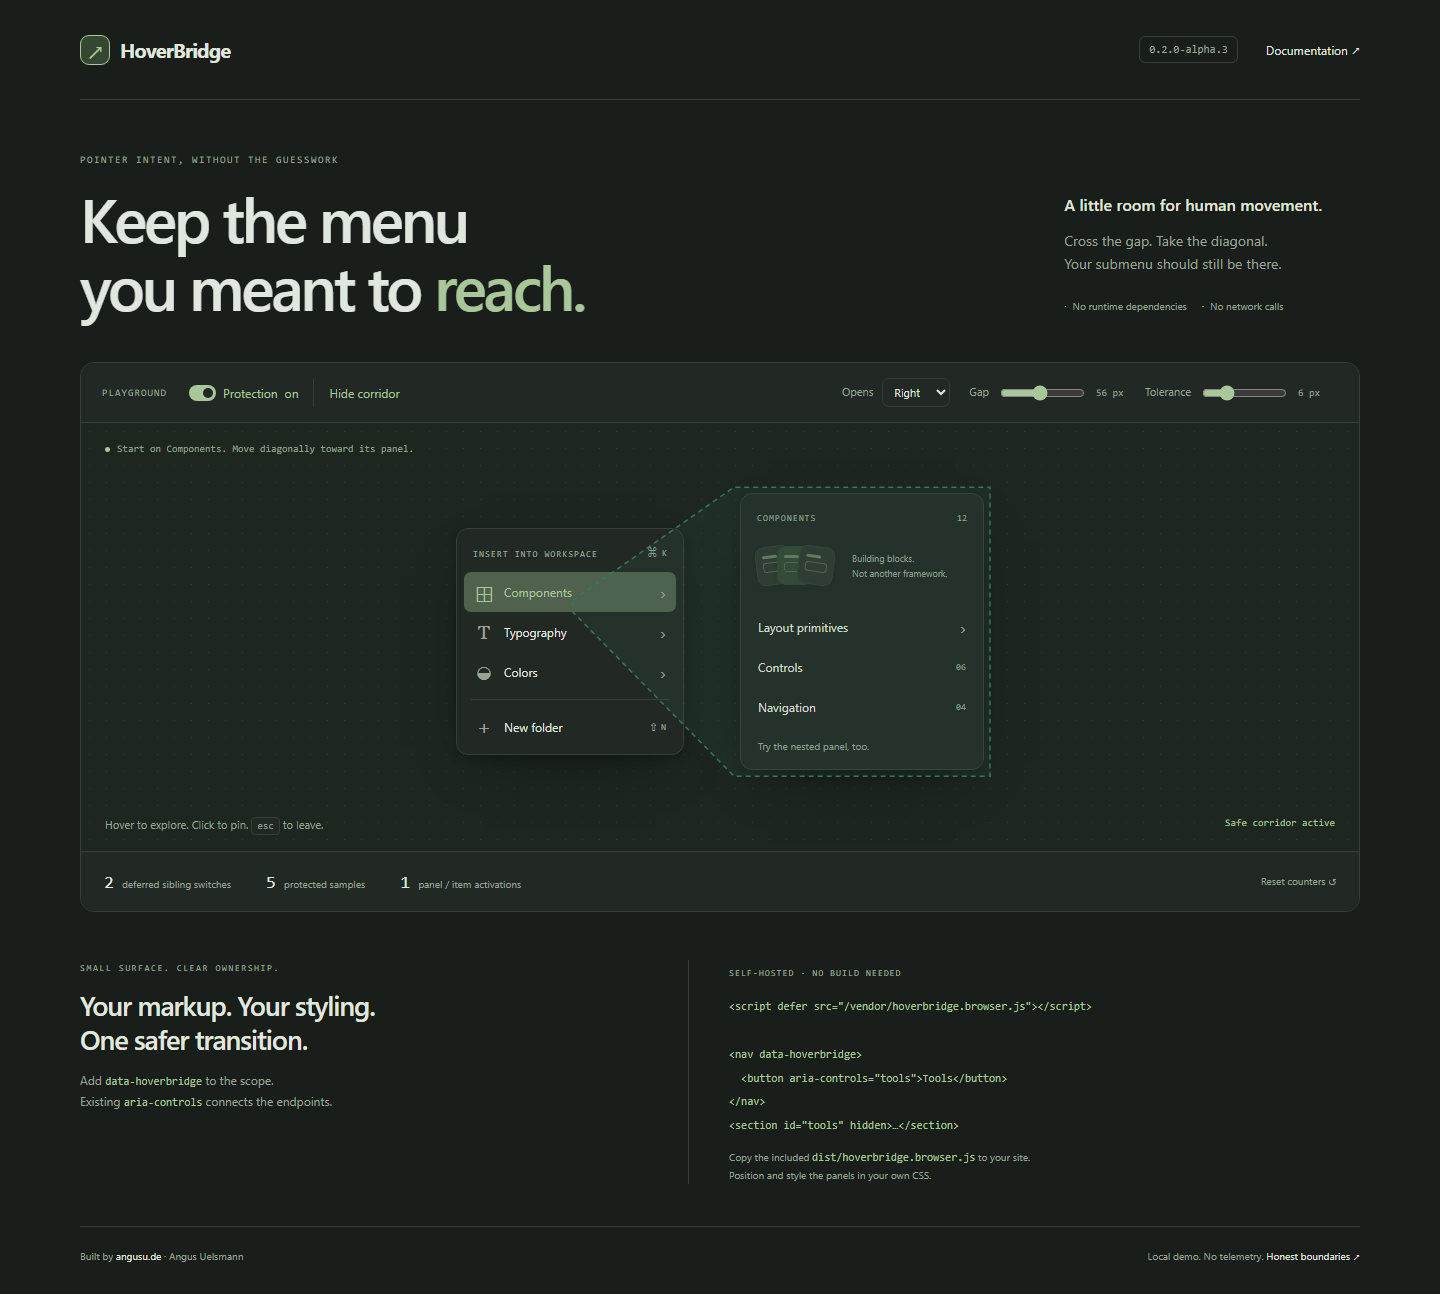
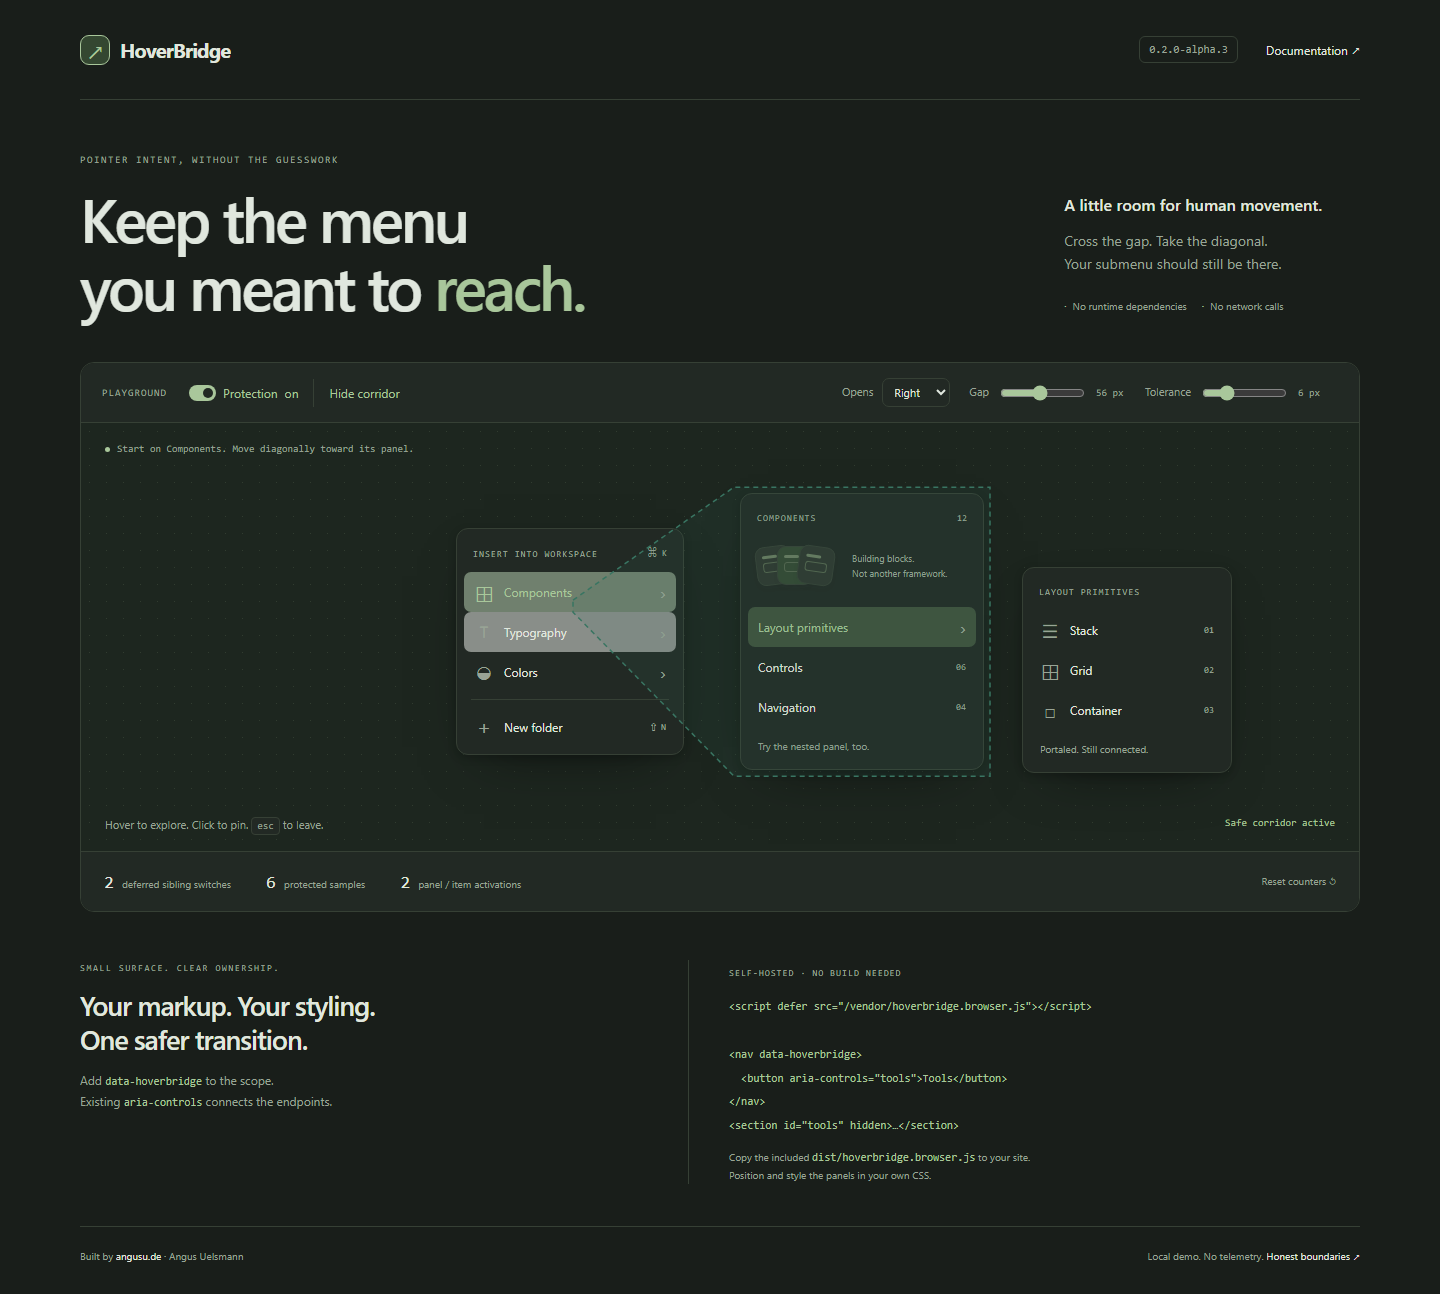
Add real hover comparison, hosted demo and consistent README assets

diff --git a/README.de.md b/README.de.md
@@ -3,22 +3,38 @@
 <h1 align="center">Das Untermenü, das du erreichen wolltest.<br>Bleibt erreichbar.</h1>
 <p align="center">Über die Lücke. Quer durch die Liste.<br>Ohne versehentlich das nächste Menü zu öffnen.</p>
 
+<p align="center"><a href="README.md"><img src="docs/assets/readme-language-en.svg" height="40" alt="Read this README in English"></a></p>
+
 <p align="center">
-  <a href="https://github.com/IamAngusU/HoverBridge/releases/download/v0.2.0-alpha.3/hoverbridge.browser.js"><img src="docs/assets/badge-browser.svg" height="36" alt="Ein Browser-Script herunterladen"></a>
-  <img src="docs/assets/badge-dependencies.svg" height="36" alt="Keine Laufzeit-Abhängigkeiten">
-  <a href="https://github.com/IamAngusU/HoverBridge/releases/tag/v0.2.0-alpha.3"><img src="docs/assets/badge-alpha.svg" height="36" alt="Release 0.2.0-alpha.3"></a>
-  <a href="LICENSE"><img src="docs/assets/badge-license.svg" height="36" alt="MIT"></a>
-  <a href="https://github.com/angusu-de/HoverBridge-CI/actions/workflows/ci.yml"><img src="https://github.com/angusu-de/HoverBridge-CI/actions/workflows/ci.yml/badge.svg?branch=main&amp;event=push" height="36" alt="Live-Status des CI-Spiegels"></a>
+  <a href="https://github.com/IamAngusU/HoverBridge/releases/tag/v0.2.0-alpha.3"><img src="docs/assets/readme/repo-release.svg" height="40" alt="Preview 0.2.0-alpha.3"></a>
+  <a href="docs/install.md"><img src="docs/assets/readme/repo-runtime.svg" height="40" alt="Browser and TypeScript"></a>
+  <a href="LICENSE"><img src="docs/assets/readme/repo-license.svg" height="40" alt="MIT license"></a>
 </p>
-<p align="center"><a href="#einmal-einbinden">Start</a> · <a href="#ausprobieren">Playground</a> · <a href="docs/api.md">API</a> · <a href="docs/testing.md">Messwerte</a> · <a href="README.md">English</a></p>
+
+<p align="center"><a href="#schnellstart">Start</a> · <a href="#ausprobieren">Playground</a> · <a href="docs/api.md">API</a> · <a href="docs/testing.md">Messwerte</a> · <a href="README.md">English</a></p>
 
 HoverBridge hält das aktive Panel offen, während sich der Pointer in seine Richtung bewegt. Auch dann, wenn der Weg über andere Listeneinträge oder einen leeren Abstand führt. Ein bewusster Richtungswechsel, Verweilen über einem anderen Eintrag oder ein Klick gibt die Auswahl wieder frei.
 
 **Kein unsichtbares Overlay, das Klicks abfängt. Kein globales `pointer-events: none`. Kein neues Menü-Framework.**
 
-<img src="docs/assets/how-it-works.svg" width="1280" alt="Technisches Diagramm: Der Pointer kreuzt Typography auf dem Weg zum Components-Panel; Components bleibt ausgewählt.">
+**Für bestehende Websites und eigene Menü-Komponenten.** [Live ausprobieren](https://angusu.de/hoverbridge/index.html) · [Installation](docs/install.md)
 
-<sub>Schematische Darstellung im Stil der Bloom-Grafiken. Der Weg ist ein Beispiel, keine Messung echter Nutzer.</sub>
+![HoverBridge off and on, with the same pointer path](docs/assets/hoverbridge-comparison.gif)
+
+<sub>Zehn Sekunden, derselbe skriptgesteuerte Pointer-Weg: Schutz aus, dann an. Echte Browseraufnahme des mitgelieferten Playgrounds; kein Nutzertest.</sub>
+
+## Schnellstart
+
+```sh
+npm install https://github.com/IamAngusU/HoverBridge/releases/download/v0.2.0-alpha.3/iamangusu-hoverbridge-0.2.0-alpha.3.tgz
+```
+```js
+import { createHoverBridge } from '@iamangusu/hoverbridge';
+const menu = document.querySelector('[data-hoverbridge]');
+if (menu) createHoverBridge(menu);
+```
+
+Die versionierte Release-Datei funktioniert heute; npm-Veröffentlichung folgt nach Kontoeinrichtung. Ohne Build-Schritt: die Browser-Datei unten verwenden.
 
 ## Einmal einbinden
 
@@ -123,7 +139,7 @@ guard.destroy();
 
 Für Maintainer schreibt `npm run metrics` Bundle-Größe und einen Microbenchmark des DOM-freien Kerns nach `docs/evidence/`. Die CI lädt diese Dateien pro Linux-Lauf als Artefakt hoch. Browser-Layout und Rendering sind in diesen Zeiten nicht enthalten. [Messbereich](docs/testing.md#size-and-core-benchmark).
 
-**Gehostete CI:** Der öffentliche [CI-Spiegel](https://github.com/angusu-de/HoverBridge-CI) prüft denselben Commit unter Windows, Linux und macOS. Auf dem IamAngusU-Account startet GitHub die Jobs derzeit wegen einer Abrechnungssperre nicht. Das Badge zeigt `main` des Spiegels; bei neuen Commits muss dessen SHA mit `main` dieses Repositories verglichen werden. [Workflow und Herkunft](docs/deployment.md#ci-and-evidence).
+[Build-Nachweise und Herkunft](docs/deployment.md#ci-and-evidence).
 
 ## Verhalten
 
@@ -151,6 +167,12 @@ Der Geometrie-Kern lässt sich in andere Laufzeiten übertragen. Fertige native 
 
 Physische Stift- und Touch-Geräte sind ebenfalls noch ungetestet. [Browsermatrix und Grenzen](docs/testing.md).
 
+## Warum nicht Floating UI oder Radix?
+
+[Floating UI](https://floating-ui.com/docs/usehover#safepolygon) bietet bereits `safePolygon()` und Positionierung. Wer es nutzt, sollte zuerst dessen Hover-Verhalten verwenden. [Radix](https://www.radix-ui.com/primitives/docs/components/dropdown-menu) liefert komplette React-Komponenten mit eigener Zustands- und Tastaturlogik.
+
+HoverBridge passt zu bestehendem HTML, anderen Frameworks oder einer eigenen Menülogik, wenn nur Pointer-Absicht und Übergänge fehlen. Der Guard-Einstieg lässt die Zustandskontrolle bei deiner Komponente. Es ist kein Ersatz für Positionierung oder ein vollständiges barrierefreies Menü; zwei konkurrierende Zustandscontroller dürfen nicht dieselbe Sichtbarkeit steuern.
+
 ## Projektbefehle
 
 ```sh
@@ -166,3 +188,5 @@ Für die Script-Einbindung auf deiner Website brauchst du keinen dieser Befehle.
 [Messwerte und Tests](docs/testing.md) · [Architektur](docs/architecture.md) · [Deployment](docs/deployment.md) · [Mitarbeiten](CONTRIBUTING.md) · [Sicherheit](SECURITY.md)
 
 <p align="center"><sub>Powered by <a href="https://angusu.de">angusu.de</a> · Angus Uelsmann · <a href="LICENSE">MIT</a></sub></p>
+
+<p align="center"><a href="https://github.com/IamAngusU/icon-marquee"><img src="docs/assets/stack-marquee.svg" width="760" alt="TypeScript, JavaScript, HTML, CSS and Node.js"></a></p>

diff --git a/README.md b/README.md
@@ -3,22 +3,38 @@
 <h1 align="center">Keep the menu you meant to reach.</h1>
 <p align="center">Cross the gap. Take the diagonal.<br>Your submenu should still be there.</p>
 
+<p align="center"><a href="README.de.md"><img src="docs/assets/readme-language-de.svg" height="40" alt="Diese README auf Deutsch lesen"></a></p>
+
 <p align="center">
-  <a href="https://github.com/IamAngusU/HoverBridge/releases/download/v0.2.0-alpha.3/hoverbridge.browser.js"><img src="docs/assets/badge-browser.svg" height="36" alt="Download one browser script"></a>
-  <a href="docs/architecture.md"><img src="docs/assets/badge-dependencies.svg" height="36" alt="Zero runtime dependencies"></a>
-  <a href="https://github.com/IamAngusU/HoverBridge/releases/tag/v0.2.0-alpha.3"><img src="docs/assets/badge-alpha.svg" height="36" alt="0.2.0-alpha.3 release"></a>
-  <a href="LICENSE"><img src="docs/assets/badge-license.svg" height="36" alt="MIT licensed"></a>
-  <a href="https://github.com/angusu-de/HoverBridge-CI/actions/workflows/ci.yml"><img src="https://github.com/angusu-de/HoverBridge-CI/actions/workflows/ci.yml/badge.svg?branch=main&amp;event=push" height="36" alt="Live CI mirror status"></a>
+  <a href="https://github.com/IamAngusU/HoverBridge/releases/tag/v0.2.0-alpha.3"><img src="docs/assets/readme/repo-release.svg" height="40" alt="Preview 0.2.0-alpha.3"></a>
+  <a href="docs/install.md"><img src="docs/assets/readme/repo-runtime.svg" height="40" alt="Browser and TypeScript"></a>
+  <a href="LICENSE"><img src="docs/assets/readme/repo-license.svg" height="40" alt="MIT license"></a>
 </p>
-<p align="center"><a href="#paste-once">Start</a> · <a href="#try-it">Playground</a> · <a href="docs/api.md">API</a> · <a href="docs/testing.md">Measured behavior</a> · <a href="README.de.md">Deutsch</a></p>
+
+<p align="center"><a href="#quick-start">Start</a> · <a href="#try-it">Playground</a> · <a href="docs/api.md">API</a> · <a href="docs/testing.md">Measured behavior</a> · <a href="README.de.md">Deutsch</a></p>
 
 A submenu should not be an obstacle course. HoverBridge keeps the active panel open while the pointer heads toward it, including through empty space and across neighboring rows. Move somewhere else deliberately, stop over another item, or click it: the interface follows your choice.
 
 **No invisible click-catching overlay. No global `pointer-events: none`. No replacement menu framework.**
 
-<img src="docs/assets/how-it-works.svg" width="1280" alt="Technical diagram: the pointer crosses Typography on its way to the Components panel, while Components remains the active selection.">
+**For existing websites and custom menu components.** [Try the live demo](https://angusu.de/hoverbridge/index.html) · [Install guide](docs/install.md)
 
-<sub>Schematic pointer trace inspired by the project's Bloom graphics. The path is illustrative, not measured user data.</sub>
+![HoverBridge off and on, with the same pointer path](docs/assets/hoverbridge-comparison.gif)
+
+<sub>Ten seconds, the same scripted pointer path: protection off, then on. Real browser capture of the included playground; not a user study.</sub>
+
+## Quick start
+
+```sh
+npm install https://github.com/IamAngusU/HoverBridge/releases/download/v0.2.0-alpha.3/iamangusu-hoverbridge-0.2.0-alpha.3.tgz
+```
+```js
+import { createHoverBridge } from '@iamangusu/hoverbridge';
+const menu = document.querySelector('[data-hoverbridge]');
+if (menu) createHoverBridge(menu);
+```
+
+The versioned release archive works today; registry publication is pending account setup. Without a build step, use the browser file below.
 
 ## Paste once
 
@@ -125,7 +141,7 @@ guard.destroy();
 
 For maintainers, `npm run metrics` records bundle size and a DOM-free core microbenchmark in `docs/evidence/`. CI uploads those files for each Linux run. These timings exclude browser layout and rendering. [Measurement scope](docs/testing.md#size-and-core-benchmark).
 
-**Hosted CI:** The public [CI mirror](https://github.com/angusu-de/HoverBridge-CI) runs the same commit on Windows, Linux and macOS. GitHub currently prevents jobs from starting on the IamAngusU account because of an account billing lock. The badge reports the mirror's `main` branch; compare its commit SHA with this repository's `main` before treating it as proof for a newer commit. [Workflow and provenance](docs/deployment.md#ci-and-evidence).
+[Build evidence and source provenance](docs/deployment.md#ci-and-evidence).
 
 ## What it handles
 
@@ -153,6 +169,12 @@ The geometric core is portable. Native adapters are **not** shipped in this vers
 
 Physical pen/touch devices remain untested. [Browser matrix and boundaries](docs/testing.md).
 
+## Why not Floating UI or Radix?
+
+[Floating UI](https://floating-ui.com/docs/usehover#safepolygon) already provides `safePolygon()` and positioning. If your application uses it, try its hover interaction first. [Radix](https://www.radix-ui.com/primitives/docs/components/dropdown-menu) supplies complete React primitives with their own state and keyboard behavior.
+
+Choose HoverBridge for existing HTML, another framework, or your own menu when you need a small pointer-intent layer. Its guard entry leaves state ownership with your component. It does not supply positioning or a complete accessible menu. Avoid putting competing visibility controllers on the same panel.
+
 ## Project commands
 
 ```sh
@@ -168,3 +190,5 @@ The script-only integration above needs none of these commands on your website. 
 [Measured sizes, timings and test logs](docs/testing.md) · [How the corridor works](docs/architecture.md) · [Deploy](docs/deployment.md) · [Contribute](CONTRIBUTING.md) · [Security](SECURITY.md)
 
 <p align="center"><sub>Powered by <a href="https://angusu.de">angusu.de</a> · Angus Uelsmann · <a href="LICENSE">MIT</a></sub></p>
+
+<p align="center"><a href="https://github.com/IamAngusU/icon-marquee"><img src="docs/assets/stack-marquee.svg" width="760" alt="TypeScript, JavaScript, HTML, CSS and Node.js"></a></p>

diff --git a/docs/deployment.md b/docs/deployment.md
@@ -11,7 +11,7 @@ The browser file needs no backend process, database migration, runtime dependenc
 
 ## CI and evidence
 
-[CI](../.github/workflows/ci.yml) is configured for pushes to `main`, pull requests and manual dispatch. It tests the browser matrix on Windows, Linux and macOS with Node 24, verifies the package on Node 20, smoke-tests both demo forms, and checks `npm pack`. Linux uploads measured size and DOM-free benchmark JSON as run artifacts. GitHub currently refuses to start jobs on IamAngusU because of an account billing lock. The identical commit is pushed to the public [angusu-de/HoverBridge-CI mirror](https://github.com/angusu-de/HoverBridge-CI), where Actions can run. Each mirror job first compares its commit with `IamAngusU/HoverBridge` `main` and fails if they differ. Its GitHub-generated badge in the README reflects the mirror's actual workflow status. For each release, also confirm the mirror's run SHA equals the source tag's commit before citing it as release evidence; a later source-only push can make an older green badge stale.
+[CI](../.github/workflows/ci.yml) is configured for pushes to `main`, pull requests and manual dispatch. It tests the browser matrix on Windows, Linux and macOS with Node 24, verifies the package on Node 20, smoke-tests both demo forms, and checks `npm pack`. Linux uploads measured size and DOM-free benchmark JSON as run artifacts. [Runner account context](https://github.com/IamAngusU/IamAngusU/blob/main/ci.md). The identical commit is pushed to the public [angusu-de/HoverBridge-CI mirror](https://github.com/angusu-de/HoverBridge-CI), where Actions can run. Each mirror job first compares its commit with `IamAngusU/HoverBridge` `main` and fails if they differ. Its Actions page reports the actual workflow status. For each release, also confirm the mirror's run SHA equals the source tag's commit before citing it as release evidence; a later source-only push can make an older green badge stale.
 
 The workflow uses read-only repository permission, pinned official actions and no publication secret. It does not automatically publish to npm or create a release.
 
@@ -23,6 +23,15 @@ The workflow uses read-only repository permission, pinned official actions and n
 4. The ignored `release/v0.2.0-alpha.3/` directory contains the browser file, standalone HTML, npm archive, source ZIP, per-file manifest and SHA-256 checksums. Review the files, then push the tag and create a GitHub prerelease with those assets.
 5. Download the published browser file and npm archive from the release, verify their hashes, and smoke-test the public URLs. Link the published tag from the README.
 
-`release:bundle` refuses a dirty checkout and archives the exact Git commit. The checksum manifest records that commit and every local asset's hash. It does not assert a hosted CI result; the run URL and matching SHA are the proof of CI. When GitHub unlocks Actions on IamAngusU, the primary workflow can run there again.
+`release:bundle` refuses a dirty checkout and archives the exact Git commit. The checksum manifest records that commit and every local asset's hash. It does not assert a hosted CI result; the run URL and matching SHA are the proof of CI. Runner account context is maintained in the linked profile documentation.
 
 The npm package is not published to the npm registry in this prerelease. The release archive and GitHub tag are the versioned installation sources. Publishing to npm later requires a separate account and publication decision.
+
+## Public playground
+
+The owner-operated static demo is at https://angusu.de/hoverbridge/index.html.
+Generate its standalone HTML with `npm run build` and `npm run demo:export`;
+the file includes the exact bundle, CSS and demo logic and requires no backend.
+Only that HTML is deployed. Keep a versioned copy and verify the hosted controls
+after publication. Service availability is best effort; the downloaded demo
+works offline. Registry setup is documented in [registry.md](registry.md).

diff --git a/docs/testing.md b/docs/testing.md
@@ -49,3 +49,11 @@ On this Windows machine (Node 24.5.0, Intel Core i9-12900K), the median of 11 ba
 The included demo has local scripts and CSS only. The original multi-file demo and exported standalone HTML were opened through `file:` in Chromium on Windows and exercised with the same smoke interaction, including the live tolerance control. The preview server and screenshots were checked separately over loopback HTTP in alpha.3; [capture record](demo-check.json). The README screenshot is a real Chromium render with corridor debugging enabled; the technical diagram is an explanatory schematic. Neither graphic represents a timing benchmark or user study.
 
 Physical pen and touch hardware, Safari on Apple hardware, assistive technology, and arbitrary third-party component libraries were not tested. A framework that owns its own menu state must consult the guard's `shouldHold()` or `onChange`; the guard does not change host state. The original [0.1.0-alpha.1 record](testing-alpha1.md) remains for historical comparison.
+
+## Ten-second comparison
+
+`npm run demo:record` uses Playwright Chromium and ffmpeg on PATH to record the
+included playground twice with the same pointer path, first unprotected and
+then protected. It asserts the active item in both phases before exporting the
+GIF. The small blue dot marks actual pointer events. The GIF is a cropped,
+15-fps browser recording, not a user study or a time-saved measurement.

diff --git a/CHANGELOG.md b/CHANGELOG.md
@@ -3,7 +3,7 @@
 ## 0.2.0-alpha.3
 
 - Published a versioned, self-hostable GitHub prerelease with a browser script, standalone playground, npm archive, source ZIP and SHA-256 manifest.
-- Added copy-ready installation guidance, a pinned and read-only CI workflow, and a live badge from a public commit-matched CI mirror while Actions on IamAngusU are blocked by account billing.
+- Added copy-ready installation guidance, a pinned and read-only CI workflow, and a live badge from a public commit-matched CI mirror with commit-verifiable provenance.
 - Added `npm run metrics` for reproducible bundle-size and DOM-free core measurements, with run artifacts in CI.
 - Added repeatable release bundling and smoke checks for both the source demo and exported single-file playground.
 - Preserved a pending hover opening across a layout notification when the pointer still hits the same trigger; added a browser regression check.

diff --git a/docs/registry.md b/docs/registry.md
@@ -1,0 +1,21 @@
+# npm publication
+
+The package is not on npm yet. Use the checked release archive until this page
+and the installation guide link to an actual registry release.
+
+Create an npm account with two-factor authentication and ownership of the
+`@iamangusu` user/organization scope. The first release can be published from
+the reviewed checkout after `npm ci`, `npm run check` and `npm pack --dry-run`:
+
+```sh
+npm login
+npm publish --access public --tag alpha
+```
+
+Keep the alpha dist-tag; do not make this prerelease `latest`. Inspect the
+pack output and verify the published tarball before changing README commands.
+For subsequent automation, configure npm Trusted Publishing for the actual
+runner repository and exact workflow filename. A CI mirror is not implicitly
+authorized to publish the canonical package.
+
+[npm Trusted Publishing](https://docs.npmjs.com/trusted-publishers/).
